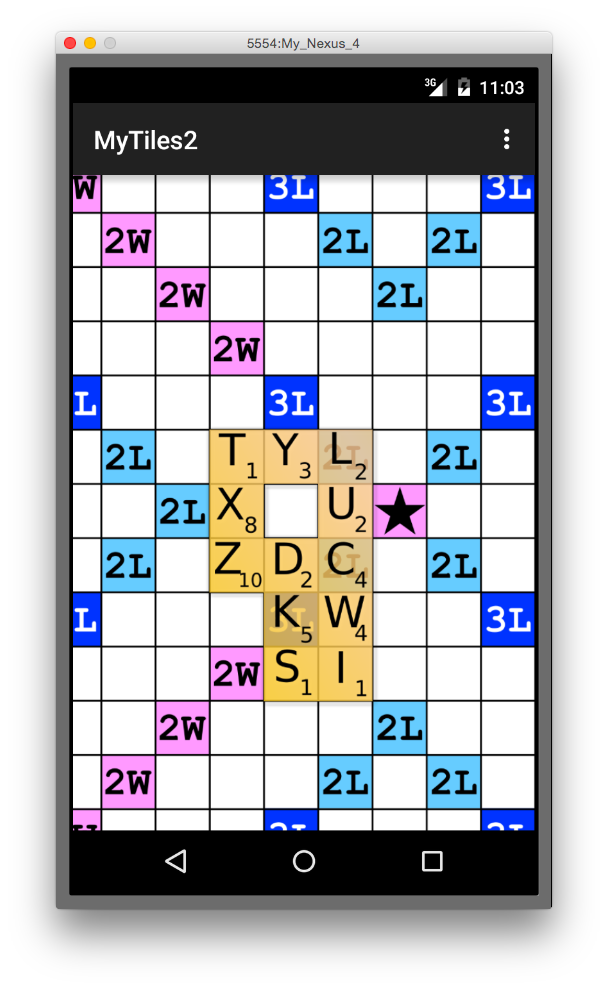
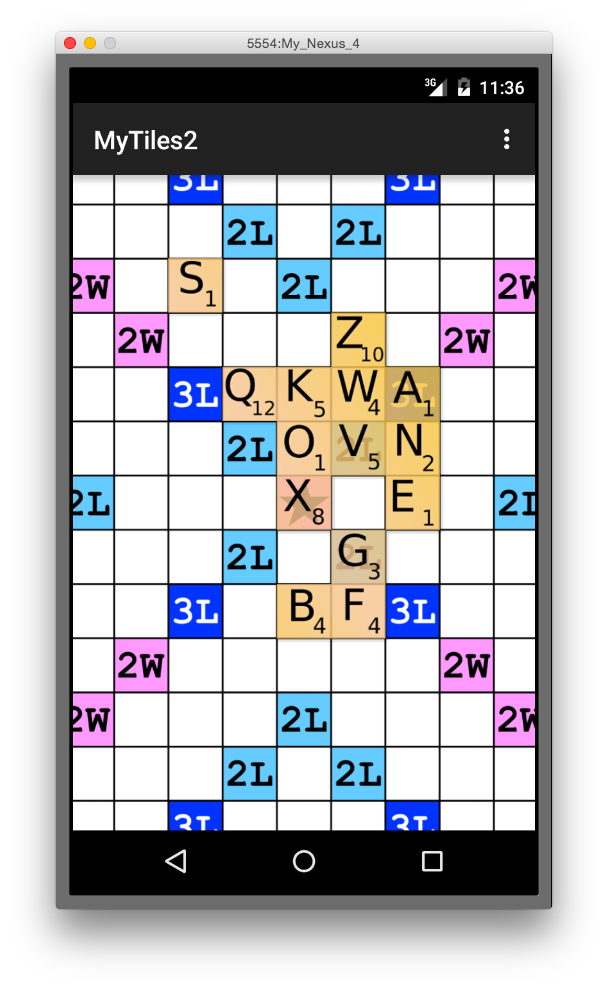
Prepare new bitmaps after shuffling tiles

diff --git a/MyTiles2/src/de/afarber/mytiles2/MyView.java b/MyTiles2/src/de/afarber/mytiles2/MyView.java
@@ -166,10 +166,8 @@ public class MyView extends View {
 	    
 	    mPaintBlur = new Paint();
 	    mPaintBlur.setColor(Color.BLACK);
-	    BlurMaskFilter blurFilter = new BlurMaskFilter(mScale * 2, Blur.OUTER);
+	    BlurMaskFilter blurFilter = new BlurMaskFilter(mScale * 1, Blur.OUTER);
 	    mPaintBlur.setMaskFilter(blurFilter);
-	    
-	    prepareBitmaps();
 	    
         // there are 15 cells in a row and 1 padding at each side
         SmallTile.sCellWidth = Math.round(mWidth / 17.0f);
@@ -311,6 +309,8 @@ public class MyView extends View {
             alignToGrid(tile);
             Log.d("shuffleTiles", "tile=" + tile);
         }
+        
+	    prepareBitmaps();
     }
 
     private void adjustZoom() {
